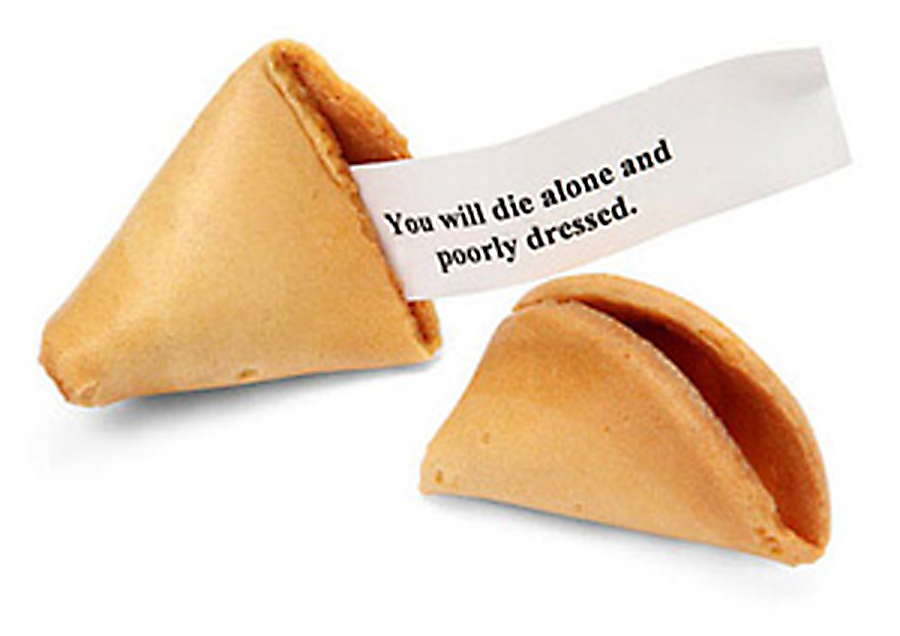
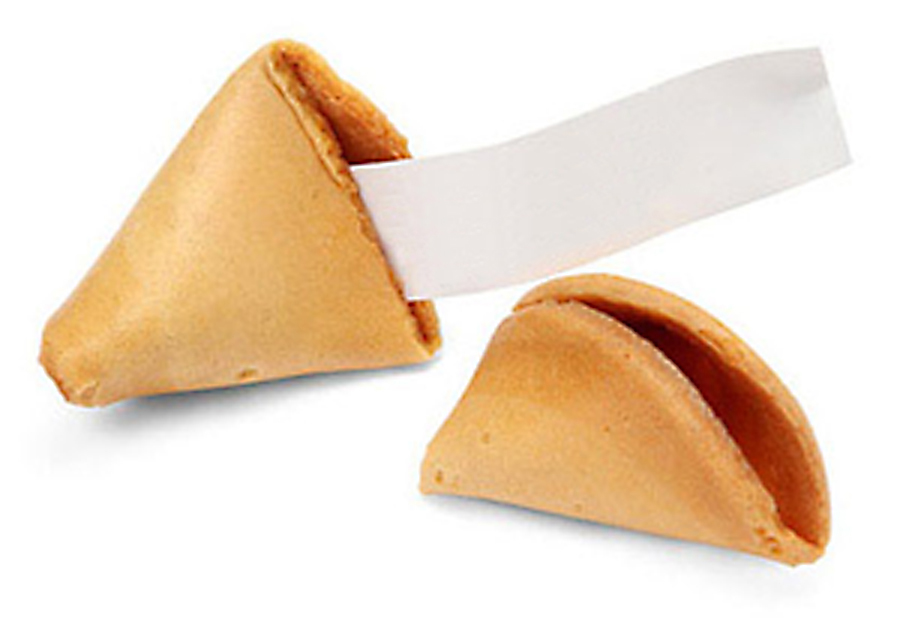
positioning fortune

Changed region(s): [[0.4044, 0.2091, 0.7467, 0.4481]]

diff --git a/pages/open-cookie.js b/pages/open-cookie.js
@@ -65,7 +65,6 @@ Don't eat the paper.`.trim().split("\n")
 var randomNumber = Math.floor(Math.random() * (fortune.length));
 return fortune[randomNumber];
 
-  // return "You will get ten Shiba Inu's for Kwanza!"
 }
 
 export default () => {
@@ -74,10 +73,12 @@ export default () => {
         <Header></Header>
         <h1>What's Your Fortune?</h1>
         <p>The cookie has spoken!</p>
-        <Link href="/">
+       <div className="cookiebox"> <Link href="/">
 <a><img src="/images/cookie2.jpg"className="img-fluid" alt="responsive image"></img></a>
 </Link>
-<p>{getFortune()}</p>
+
+<div className="message">{getFortune()}</div>
+</div>
       </div>
     );
   }

diff --git a/public/css/index.css b/public/css/index.css
@@ -11,3 +11,22 @@ body {
     h1 {
         font-size: 60px;
     }
+    p {
+     font-size: 20pt;
+    }
+    .cookiebox{ position: relative;
+    /*outline:1px solid red;*/
+    }
+
+    .message{ position: absolute;
+        font-family: sans-serif;
+        padding-top: 2%;
+      
+        top: 20%;
+        left: 45%;
+        width: 31%;
+        height: 70px;
+        /*outline: 1px solid red;*/
+    
+        transform: rotate(-18deg);
+    }
